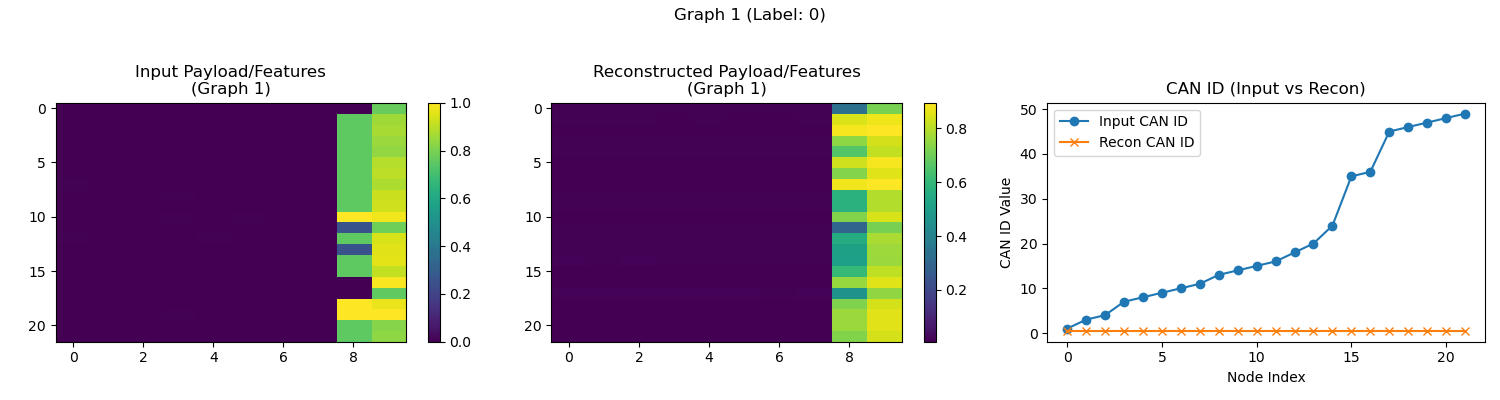
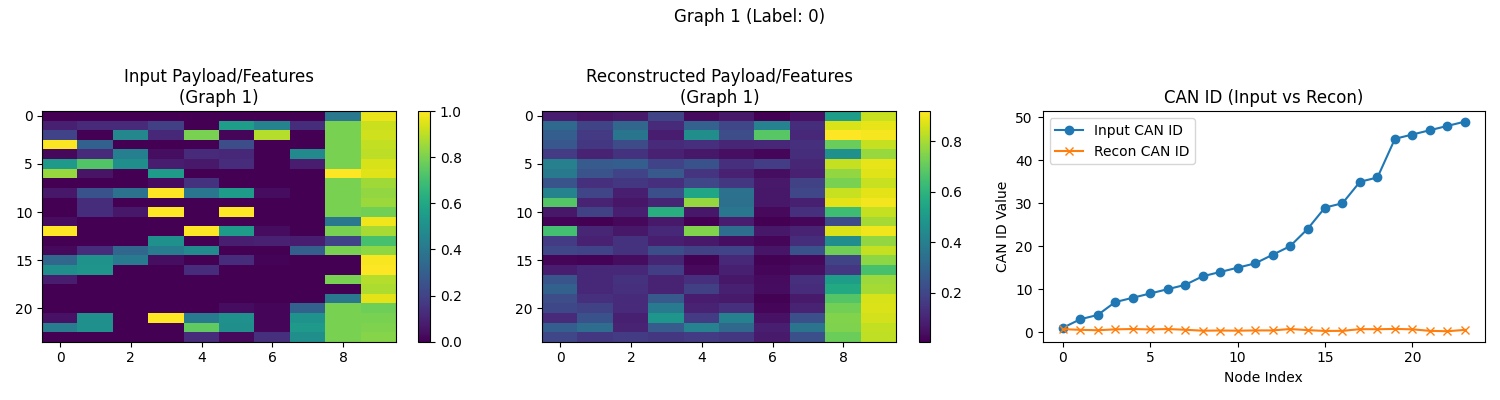
fixed normalization error

diff --git a/osc-training-AD.py b/osc-training-AD.py
@@ -135,7 +135,31 @@ def plot_graph_reconstruction(pipeline, loader, num_graphs=3, save_path="graph_r
                 shown += 1
                 if shown >= num_graphs:
                     return
-                
+
+def plot_feature_histograms(graphs, feature_names=None, save_path="feature_histograms.png"):
+    all_x = torch.cat([g.x for g in graphs], dim=0).cpu().numpy()
+    num_features = all_x.shape[1]
+    # Extend feature_names if too short
+    if feature_names is None:
+        feature_names = [f"Feature {i}" for i in range(num_features)]
+    elif len(feature_names) < num_features:
+        feature_names = feature_names + [f"Feature {i}" for i in range(len(feature_names), num_features)]
+    n_cols = 5
+    n_rows = int(np.ceil(num_features / n_cols))
+    fig, axes = plt.subplots(n_rows, n_cols, figsize=(4 * n_cols, 3 * n_rows))
+    axes = axes.flatten()
+    for i in range(num_features):
+        axes[i].hist(all_x[:, i], bins=50, color='skyblue', edgecolor='black')
+        axes[i].set_title(feature_names[i])
+        axes[i].set_xlabel("Value")
+        axes[i].set_ylabel("Count")
+    for i in range(num_features, len(axes)):
+        axes[i].axis('off')
+    plt.tight_layout()
+    plt.savefig(save_path)
+    plt.close()
+    print(f"Saved feature histograms as '{save_path}'")
+         
 def print_graph_stats(graphs, label):
     import torch
     all_x = torch.cat([g.x for g in graphs], dim=0)
@@ -467,6 +491,10 @@ def main(config: DictConfig):
 
     print("Size of the total dataset: ", len(dataset))
 
+    # plot the features in a histogram
+    feature_names = ["CAN ID", "data1", "data2", "data3", "data4", "data5", "data6", "data7", "data8", "count", "position"]
+    plot_feature_histograms([data for data in dataset], feature_names=feature_names)
+
     train_size = int(TRAIN_RATIO * len(dataset))
     test_size = len(dataset) - train_size
     generator1 = torch.Generator().manual_seed(42)
@@ -511,7 +539,7 @@ def main(config: DictConfig):
 
     # Visualize node-level reconstruction errors
     plot_node_recon_errors(pipeline, full_train_loader, num_graphs=5, save_path="node_recon_subplot.png")
-    # pipeline.train_stage2(full_train_loader, epochs=EPOCHS)
+    pipeline.train_stage2(full_train_loader, epochs=3)
 
     # # Save models
     # save_folder = "saved_models"

diff --git a/preprocessing.py b/preprocessing.py
@@ -167,7 +167,7 @@ def window_data_transform_numpy(data):
         node_data = data[mask, 0:9]
         if len(node_data) > 0:
             node_data_norm = node_data.copy()
-            node_data_norm[:, 1:9] = node_data_norm[:, 1:9] / 255.0
+            # node_data_norm[:, 1:9] = node_data_norm[:, 1:9] / 255.0 ALREADY NORMALIZED
             node_features[i, :-2] = node_data_norm.mean(axis=0)
         node_counts[i] = mask.sum()
         # Position: last occurrence of this node as source, normalized
